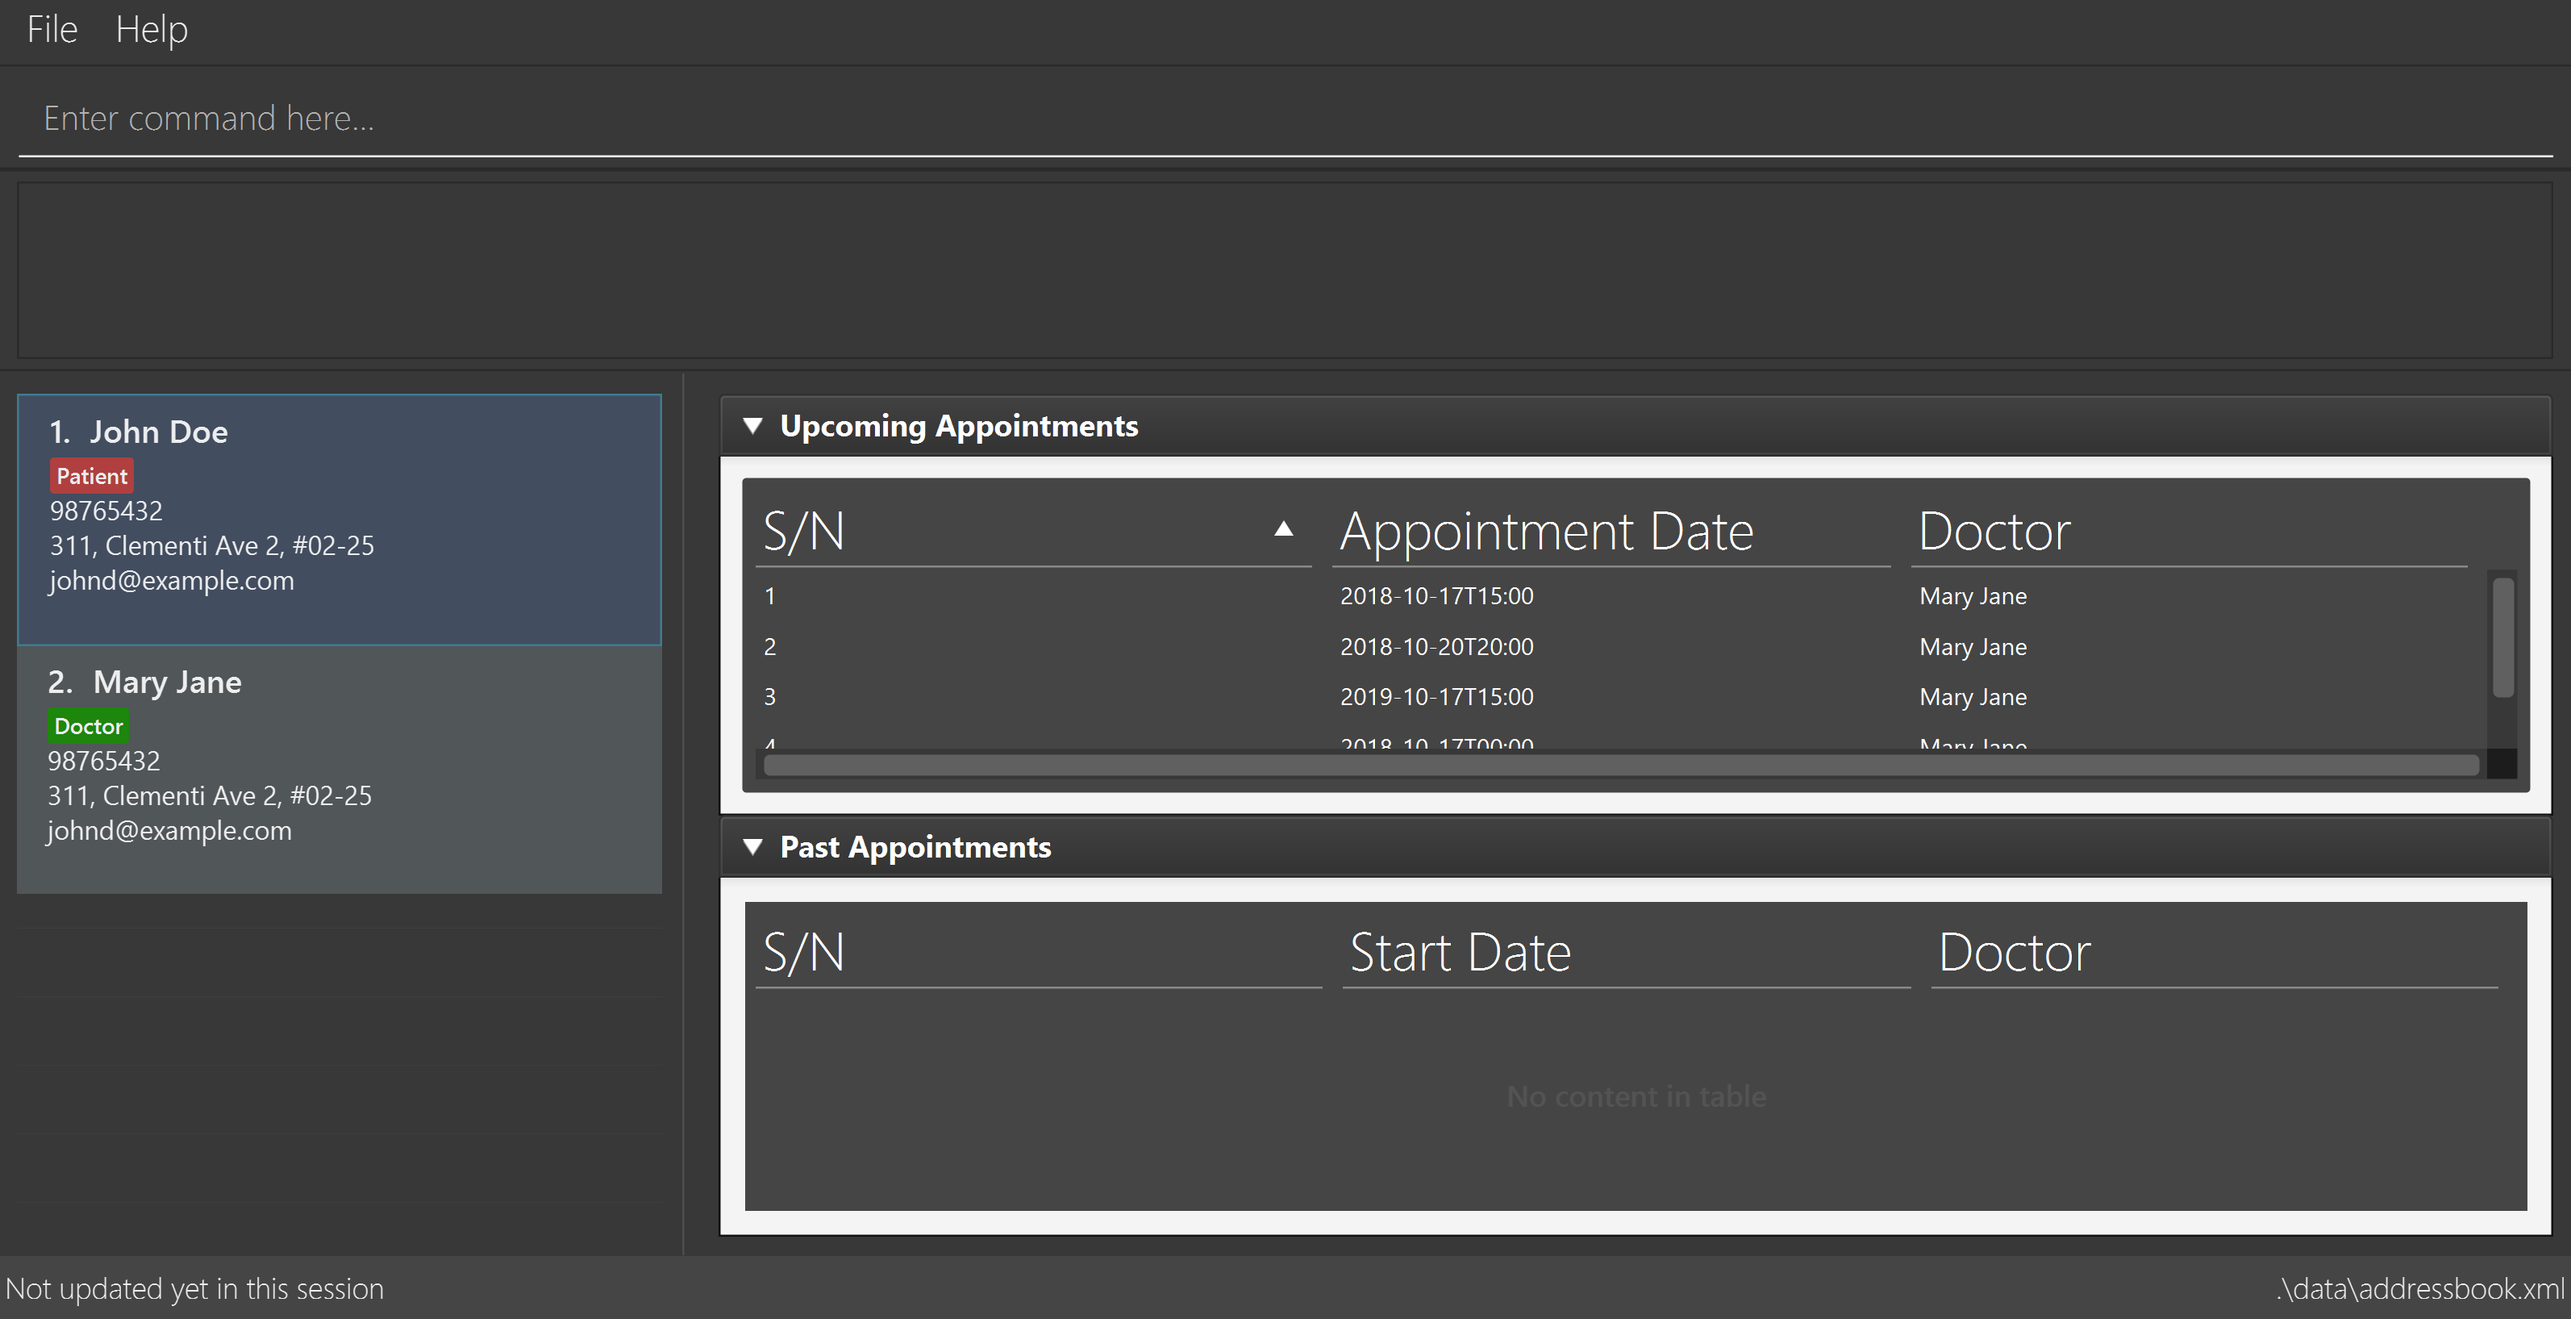
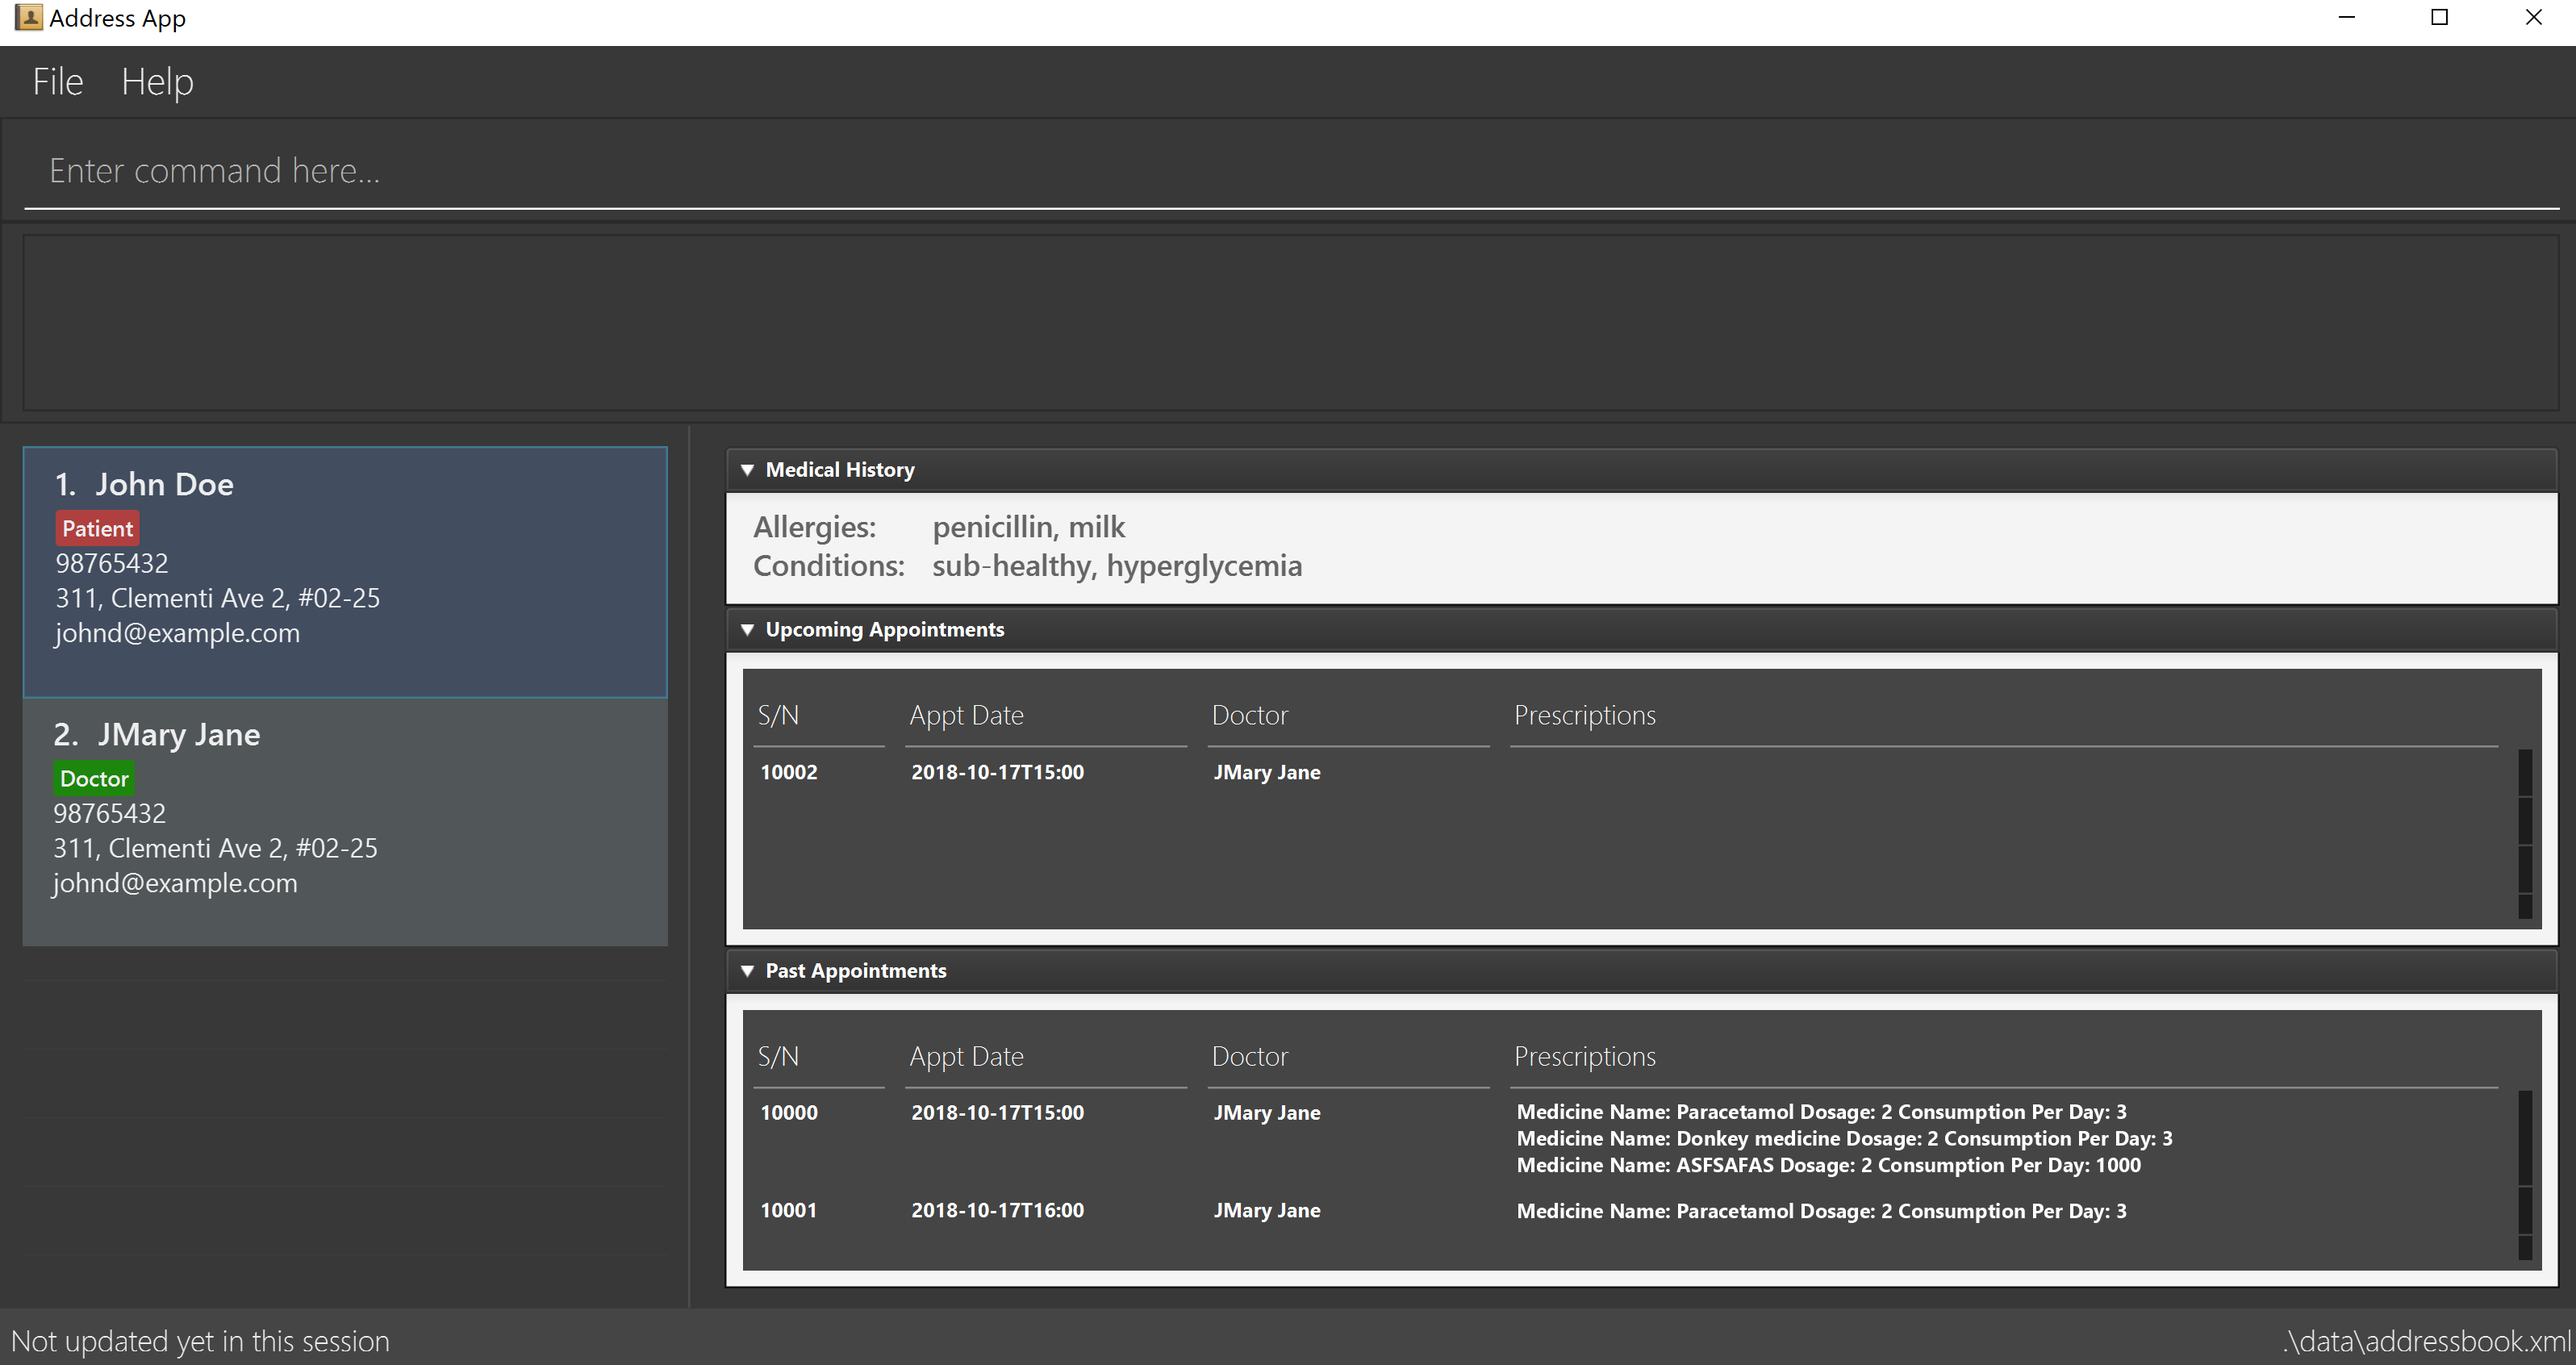
Update UI and files related to v1.3 release

diff --git a/src/main/resources/view/DarkTheme.css b/src/main/resources/view/DarkTheme.css
@@ -69,7 +69,7 @@
 }
 
 .table-view .column-header .label {
-    -fx-font-size: 20pt;
+    -fx-font-size: 10pt;
     -fx-font-family: "Segoe UI Light";
     -fx-text-fill: white;
     -fx-alignment: center-left;
@@ -311,6 +311,8 @@
 }
 
 .titled-pane {
+    -fx-font-size: 10px;
+    -fx-font-weight: bold;
     -fx-color: derive(#1d1d1d, 20%);
 }
 

diff --git a/src/main/java/seedu/address/ui/InformationPanel.java b/src/main/java/seedu/address/ui/InformationPanel.java
@@ -1,5 +1,6 @@
 package seedu.address.ui;
 
+import java.util.ArrayList;
 import java.util.Iterator;
 import java.util.logging.Logger;
 
@@ -7,13 +8,19 @@ import com.google.common.eventbus.Subscribe;
 
 import javafx.collections.FXCollections;
 import javafx.collections.ObservableList;
+
 import javafx.fxml.FXML;
-import javafx.scene.control.ListView;
+import javafx.scene.control.Label;
+import javafx.scene.control.TableCell;
+import javafx.scene.control.TableColumn;
 import javafx.scene.control.TableView;
 import javafx.scene.layout.Region;
+import javafx.scene.paint.Color;
+import javafx.scene.text.Text;
 import seedu.address.commons.core.LogsCenter;
 import seedu.address.commons.events.ui.PersonPanelSelectionChangedEvent;
 import seedu.address.model.appointment.Appointment;
+import seedu.address.model.appointment.Prescription;
 import seedu.address.model.patient.Patient;
 
 /**
@@ -26,13 +33,22 @@ public class InformationPanel extends UiPart<Region> {
     private Patient patient;
 
     @FXML
-    private ListView medicalHistoryPane;
+    private Label allergiesLabel;
+    
+    @FXML
+    private Label conditionsLabel;
 
     @FXML
     private TableView<Appointment> upcomingAppointmentTable;
 
     @FXML
     private TableView<Appointment> pastAppointmentTable;
+    
+    @FXML
+    private TableColumn<Appointment, ArrayList<Prescription>> prescriptionColumn;
+
+    @FXML
+    private TableColumn<Appointment, ArrayList<Prescription>> prescriptionPastColumn;
 
     public InformationPanel() {
         super(FXML);
@@ -40,30 +56,90 @@ public class InformationPanel extends UiPart<Region> {
         registerAsAnEventHandler(this);
     }
 
-    private void setConnections(ObservableList<Appointment> upcomingAppointmentList,
+    private void setConnections(ObservableList<String> allergiesList,
+                                ObservableList<String> conditionsList,
+                                ObservableList<Appointment> upcomingAppointmentList,
                                 ObservableList<Appointment> pastAppointmentList) {
-        // TODO - set medicalHistory in medicalHistoryPane
+
+        String parsedAllergiesList = allergiesList.toString().substring(1, allergiesList.toString().length() - 1);
+        String parsedConditionsList = conditionsList.toString().substring(1, conditionsList.toString().length() - 1);
+        allergiesLabel.setText(parsedAllergiesList);
+        conditionsLabel.setText(parsedConditionsList);
         upcomingAppointmentTable.getItems().clear();
         pastAppointmentTable.getItems().clear();
         upcomingAppointmentTable.getItems().addAll(upcomingAppointmentList);
         pastAppointmentTable.getItems().addAll(pastAppointmentList);
+        prescriptionColumn.setCellFactory(column -> {
+            return new TableCell<Appointment, ArrayList<Prescription>>() {
+                @Override
+                protected void updateItem(ArrayList<Prescription> item, boolean empty) {
+                    super.updateItem(item, empty);
+
+                    if (item == null || empty) {
+                        setGraphic(null);
+                        return;
+                    } else {
+                        final Text text = new Text(item.toString()
+                                .substring(1, item.toString().length() - 1)
+                                .replaceAll(", ", "\n"));
+                        text.setWrappingWidth(500.0);
+                        setPrefHeight(text.getLayoutBounds().getHeight());
+                        setGraphic(text);
+                        text.setFill(Color.WHITE);
+                    }
+                }
+            };
+        });
+        prescriptionPastColumn.setCellFactory(column -> {
+            return new TableCell<Appointment, ArrayList<Prescription>>() {
+                @Override
+                protected void updateItem(ArrayList<Prescription> item, boolean empty) {
+                    super.updateItem(item, empty);
+
+                    if (item == null || empty) {
+                        setGraphic(null);
+                        return;
+                    } else {
+                        final Text text = new Text(item.toString()
+                                .substring(1, item.toString().length() - 1)
+                                .replaceAll(", ", "\n"));
+                        text.setWrappingWidth(500.0);
+                        setPrefHeight(text.getLayoutBounds().getHeight());
+                        setGraphic(text);
+                        text.setFill(Color.WHITE);
+                    }
+                }
+            };
+        });
     }
 
     /**
      * Loads a patient's information on the panel.
      */
     private void loadPatientInformation(Patient patient) {
+        Iterator<String> allergiesItr =  patient.getMedicalHistory().getAllergies().iterator();
+        Iterator<String> conditionsItr =  patient.getMedicalHistory().getConditions().iterator();
         Iterator<Appointment> upcomingAppointmentItr = patient.getUpcomingAppointments().iterator();
         Iterator<Appointment> pastAppointmentItr = patient.getPastAppointments().iterator();
+
+        ObservableList<String> allergiesList = FXCollections.observableArrayList();
+        ObservableList<String> conditionsList = FXCollections.observableArrayList();
         ObservableList<Appointment> upcomingAppointmentList = FXCollections.observableArrayList();
         ObservableList<Appointment> pastAppointmentList = FXCollections.observableArrayList();
+
+        while (allergiesItr.hasNext()) {
+            allergiesList.add(allergiesItr.next());
+        }
+        while (conditionsItr.hasNext()) {
+            conditionsList.add(conditionsItr.next());
+        }
         while (upcomingAppointmentItr.hasNext()) {
             upcomingAppointmentList.add(upcomingAppointmentItr.next());
         }
         while (pastAppointmentItr.hasNext()) {
             pastAppointmentList.add(pastAppointmentItr.next());
         }
-        setConnections(upcomingAppointmentList, pastAppointmentList);
+        setConnections(allergiesList, conditionsList, upcomingAppointmentList, pastAppointmentList);
     }
 
     @Subscribe

diff --git a/src/main/java/seedu/address/logic/commands/DeleteAppointmentCommand.java b/src/main/java/seedu/address/logic/commands/DeleteAppointmentCommand.java
@@ -6,6 +6,8 @@ import static seedu.address.commons.util.CollectionUtil.requireAllNonNull;
 import java.util.Iterator;
 import java.util.List;
 
+import seedu.address.commons.core.EventsCenter;
+import seedu.address.commons.events.ui.PersonPanelSelectionChangedEvent;
 import seedu.address.logic.CommandHistory;
 import seedu.address.logic.commands.exceptions.CommandException;
 import seedu.address.model.Model;
@@ -86,6 +88,8 @@ public class DeleteAppointmentCommand extends Command {
 
         model.deleteAppointment(appointment, patient, doctor);
         model.commitAddressBook();
+
+        EventsCenter.getInstance().post(new PersonPanelSelectionChangedEvent(patient));
         return new CommandResult(String.format(MESSAGE_SUCCESS, appointment));
     }
 

diff --git a/src/main/java/seedu/address/logic/commands/AddAppointmentCommand.java b/src/main/java/seedu/address/logic/commands/AddAppointmentCommand.java
@@ -9,6 +9,8 @@ import static seedu.address.logic.parser.CliSyntax.PREFIX_PATIENT_NAME;
 import java.time.LocalDateTime;
 import java.util.List;
 
+import seedu.address.commons.core.EventsCenter;
+import seedu.address.commons.events.ui.PersonPanelSelectionChangedEvent;
 import seedu.address.logic.CommandHistory;
 import seedu.address.logic.commands.exceptions.CommandException;
 import seedu.address.model.Model;
@@ -87,6 +89,8 @@ public class AddAppointmentCommand extends Command {
         model.incrementAppointmentCounter();
         model.addAppointment(appointment);
         model.commitAddressBook();
+
+        EventsCenter.getInstance().post(new PersonPanelSelectionChangedEvent(patient));
         return new CommandResult(MESSAGE_SUCCESS);
     }
 

diff --git a/src/main/java/seedu/address/model/appointment/Prescription.java b/src/main/java/seedu/address/model/appointment/Prescription.java
@@ -80,14 +80,12 @@ public class Prescription {
     @Override
     public String toString() {
         final StringBuilder builder = new StringBuilder();
-        builder.append(getId())
-                .append(" ID: ")
+        builder.append("Medicine Name: ")
                 .append(getMedicineName())
-                .append(" Medicine Name: ")
-                .append(getDosage())
                 .append(" Dosage: ")
-                .append(getConsumptionPerDay())
-                .append(" Consumption Per Day: ");
+                .append(getDosage())
+                .append(" Consumption Per Day: ")
+                .append(getConsumptionPerDay());
         return builder.toString();
     }
 }

diff --git a/src/main/java/seedu/address/MainApp.java b/src/main/java/seedu/address/MainApp.java
@@ -40,7 +40,7 @@ import seedu.address.ui.UiManager;
  */
 public class MainApp extends Application {
 
-    public static final Version VERSION = new Version(0, 6, 0, true);
+    public static final Version VERSION = new Version(1, 3, 0, true);
 
     private static final Logger logger = LogsCenter.getLogger(MainApp.class);
 
